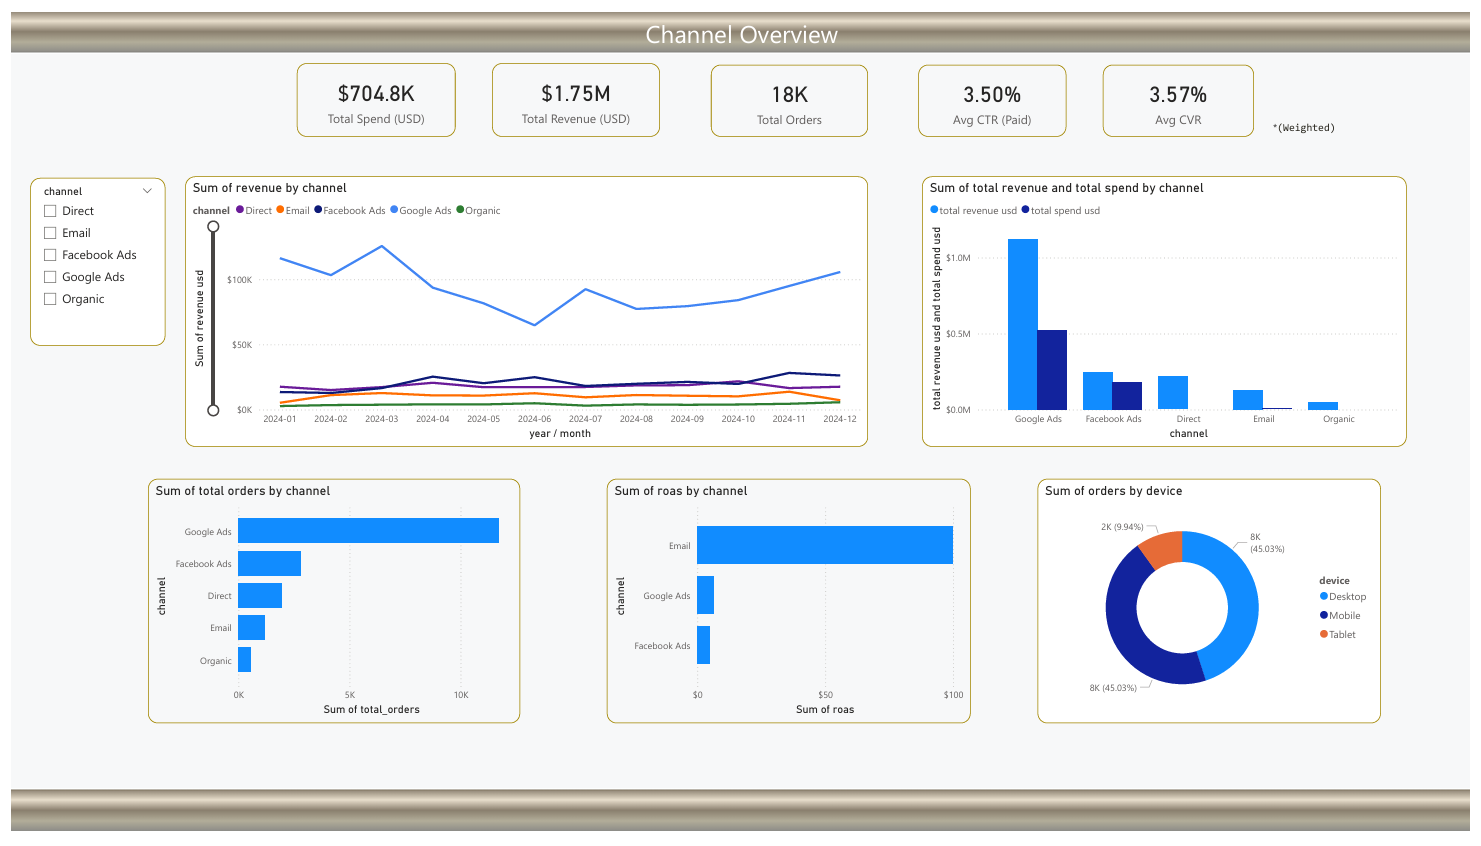
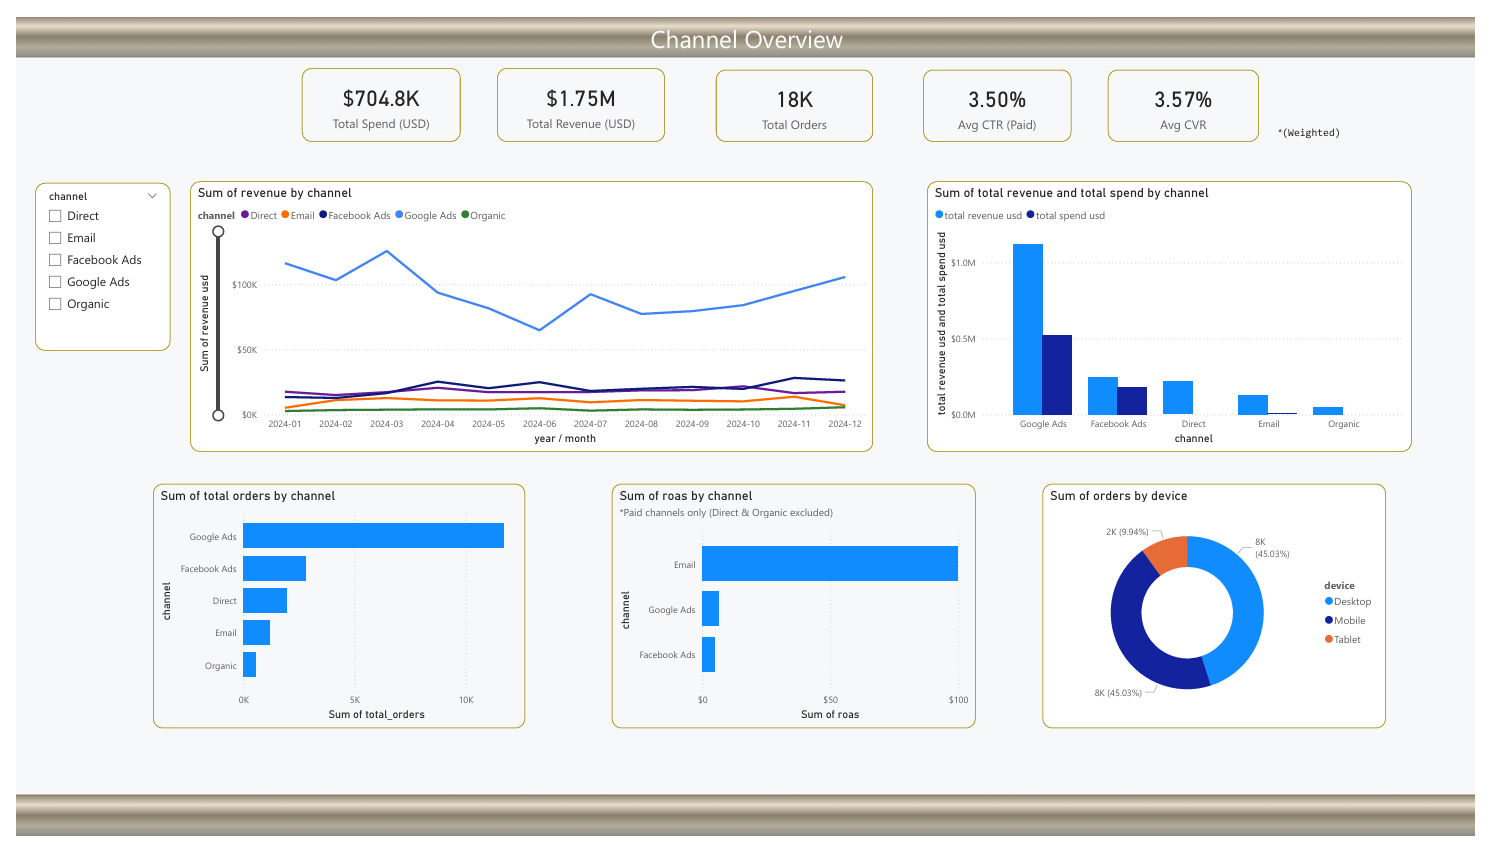
feat: update README with key findings and add ERD for views in log notebook

diff --git a/README.md b/README.md
@@ -74,11 +74,9 @@ python scripts/02_upload_to_bigquery.py
     └── data_dictionary.md         # 資料字典
 ```
 
-## 主要發現（範例）
+## 主要發現
 
-- Google Ads 帶來最高轉換量，但 Email 的轉換率最高
-- CTR > 3% 的廣告活動平均訂單轉換率高出 2.1 倍
-- ROI 最高的活動集中在再行銷（Remarketing）類型
+
 
 ## 作者
 
